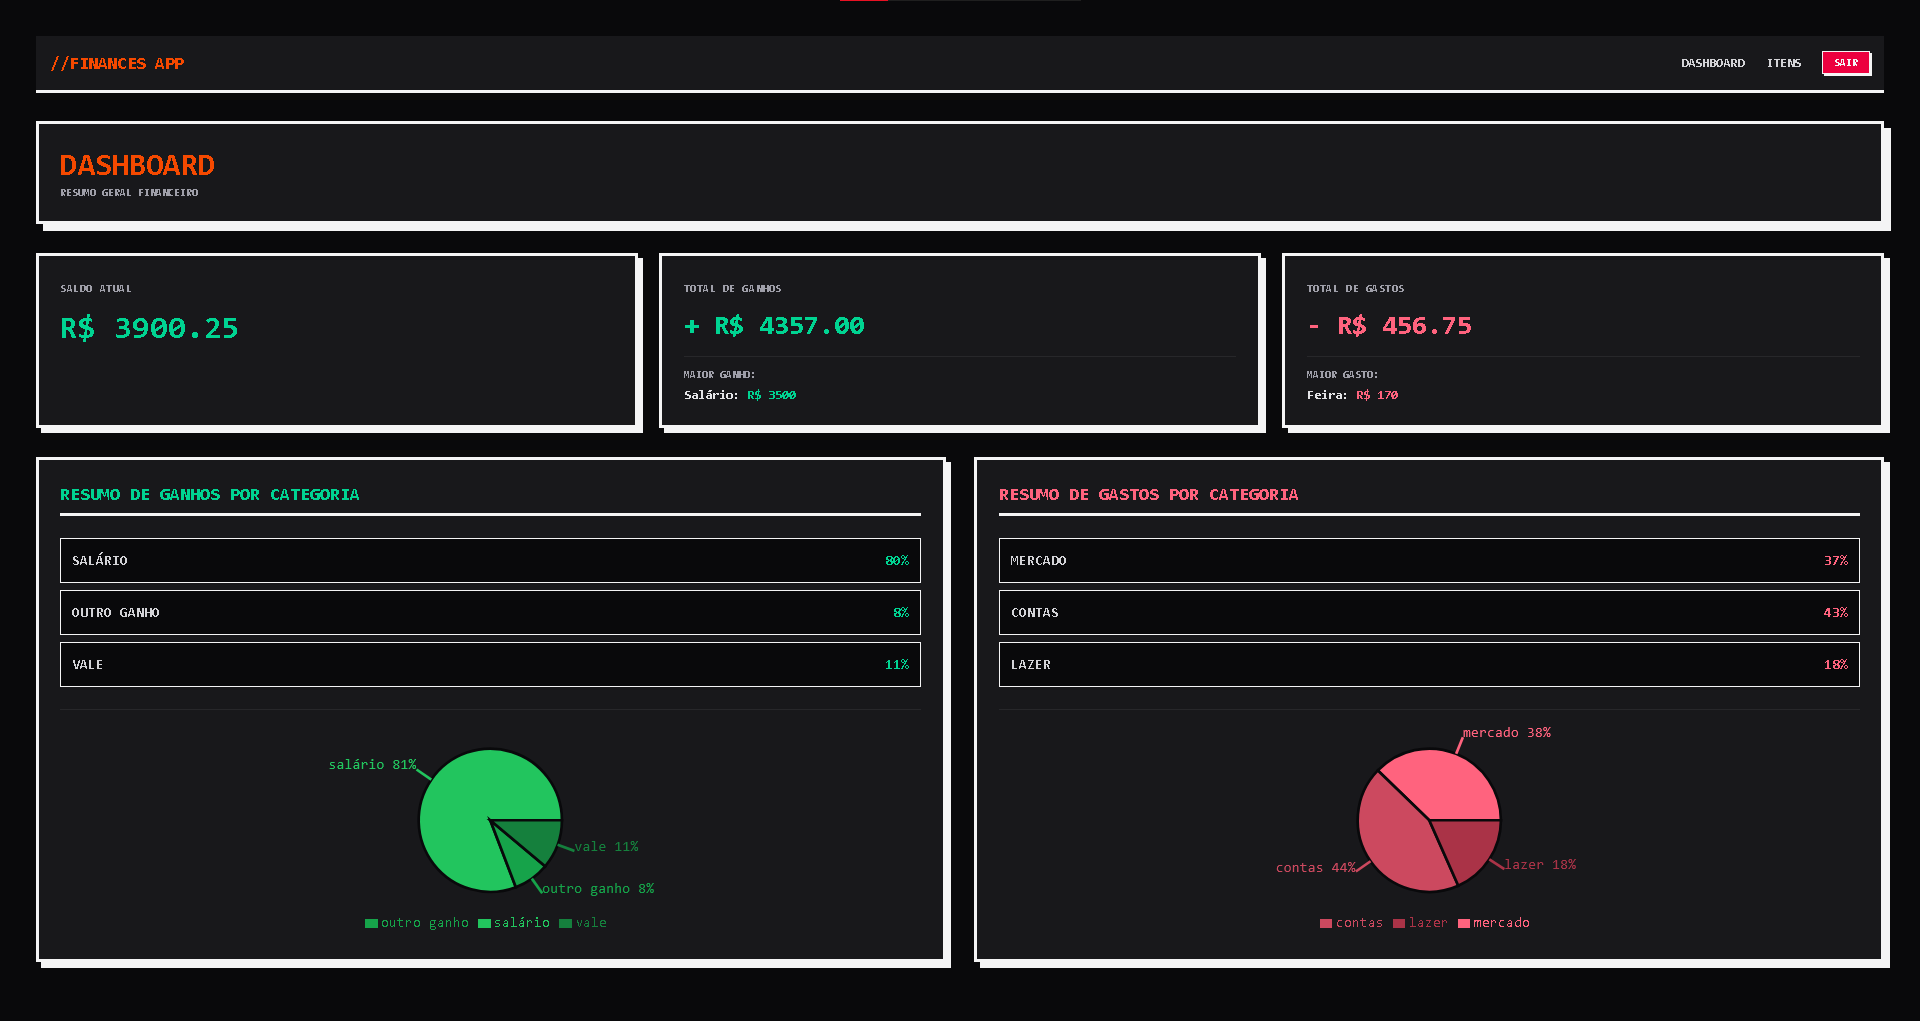
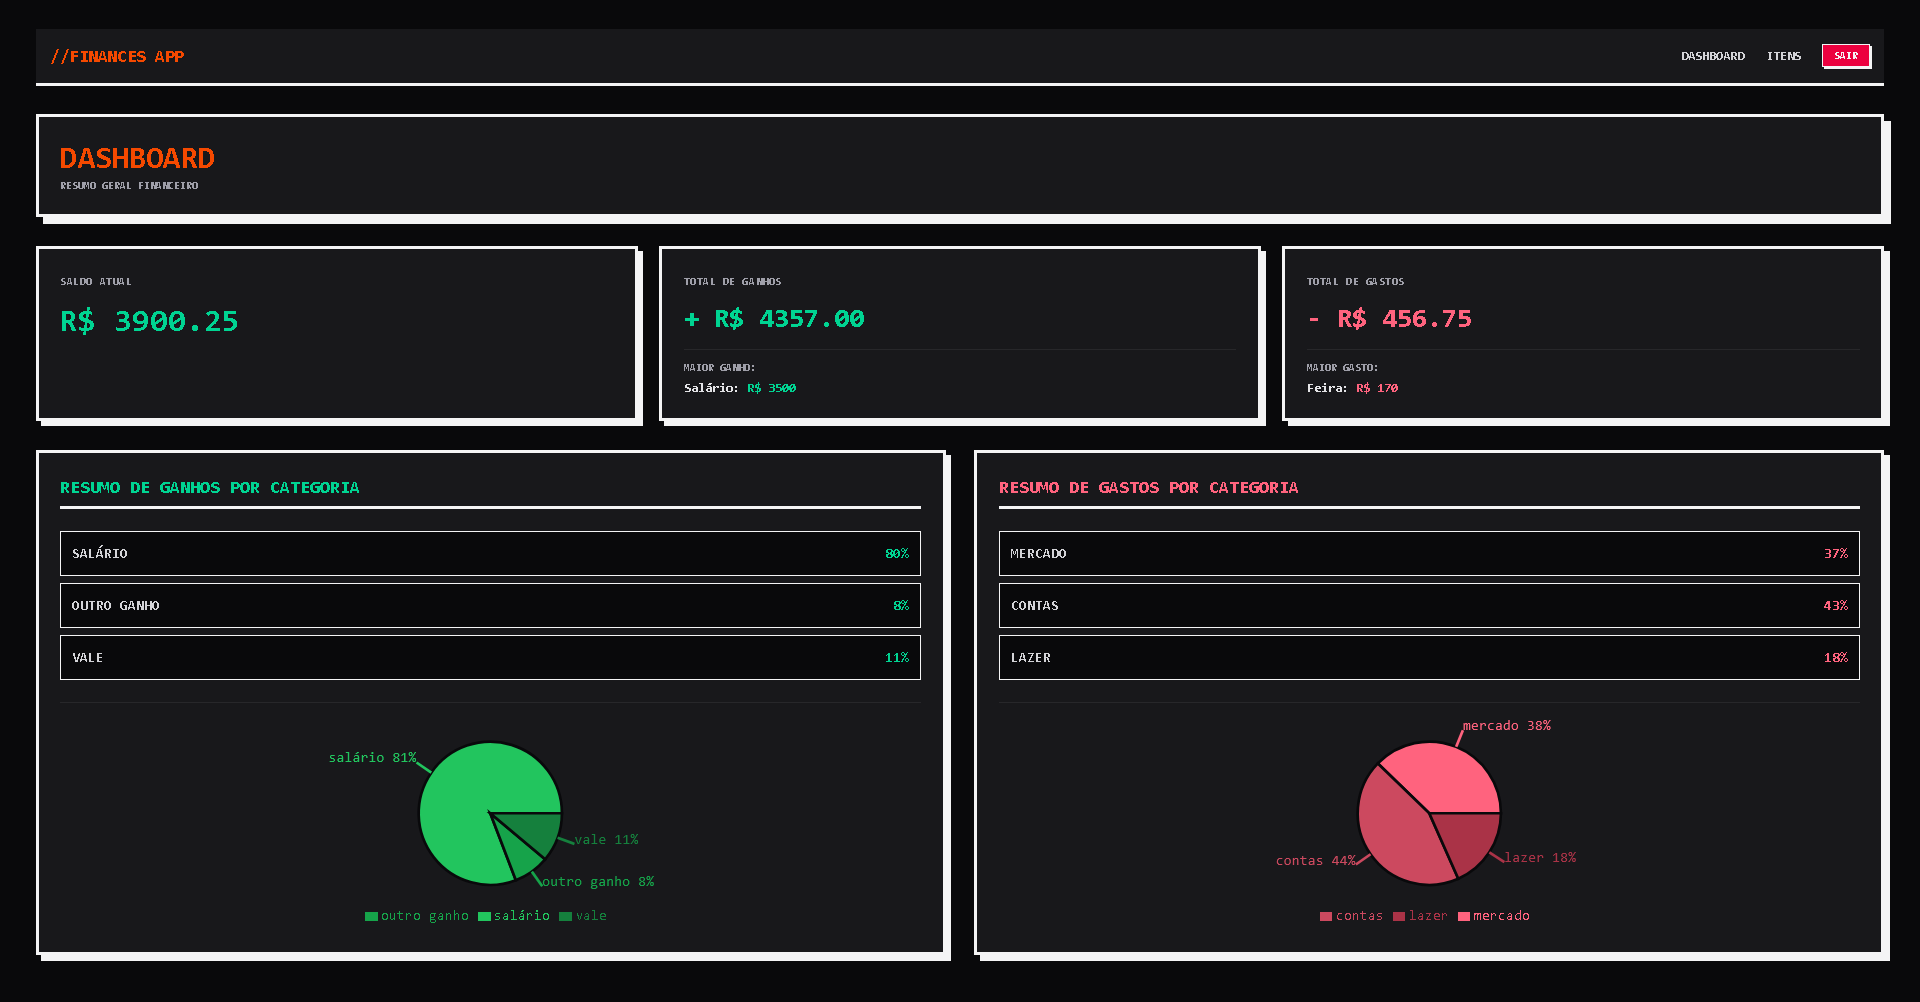
Finalizado README, ajustes no .gitignore, .env.docker e compose

diff --git a/README.md b/README.md
@@ -30,8 +30,13 @@
       <a href="#comece-aqui">Comece aqui</a>
       <ul>
         <li><a href="#prerequisitos">Pré-requisitos</a></li>
-        <li><a href="#instalacao">Instalação</a></li>
       </ul>
+      <li><a href="#instalacao">Instalação</a></li>
+        <ul>
+          <li><a href="#backend">Backend</a></li>
+          <li><a href="#frontend">Frontend</a></li>
+          <li><a href="#docker">Docker</a></li>
+        </ul>
     </li>
     <li><a href="#uso">Uso</a></li>
     <li><a href="#conceitos">Conceitos usados</a></li>
@@ -39,13 +44,13 @@
 </details>
 
 <!-- SOBRE O PROJETO -->
-# <a id="sobre-o-projeto">Sobre o projeto</a>
+# <h3 id="sobre-o-projeto">Sobre o projeto</h3>
 
 ![Product Name Screen Shot][product-screenshot]
 
 Aplicativo de finanças pessoais. Registre seus gastos e ganhos para ter um controle organizado da sua renda. Desenvolvido como o sétimo projeto de um desafio de desenvolvimento de 12 meses, com foco em conceitos avançados de React e Python.
 
-### <a id="funcionalidades">Funcionalidades</a>
+# <h3 id="funcionalidades">Funcionalidades</h3>
 
 * Criação de contas e autenticação por token
 * Rotas protegidas
@@ -57,7 +62,7 @@ Aplicativo de finanças pessoais. Registre seus gastos e ganhos para ter um cont
 
 <p align="right">(<a href="#topo">Voltar ao topo</a>)</p>
 
-# <a id="feito-com">Tecnologias usadas</a>
+# <h3 id="feito-com">Tecnologias usadas</h3>
 
 * [![Python][Python]][Python-url]
 * [![PostgreSQL][PostgreSQL]][PostgreSQL-url]
@@ -67,7 +72,7 @@ Aplicativo de finanças pessoais. Registre seus gastos e ganhos para ter um cont
 
 <p align="right">(<a href="#topo">Voltar ao topo</a>)</p>
 
-# <a id="estrutura">Estrutura do projeto</a>
+# <h3 id="estrutura">Estrutura do projeto</h3>
 
 
 Estrutura do backend:
@@ -142,92 +147,147 @@ frontend/
 <p align="right">(<a href="#topo">Voltar ao topo</a>)</p>
 <!-- GETTING STARTED -->
 
-# <a id="comece-aqui">Comece Aqui</a>
+# <h3 id="comece-aqui">Comece Aqui</h3>
 
 As instruções à seguir mostram como instalar e executar o código fonte localmente.
 
 ### Preview online
 * Se você quiser usar a versão online, clique <a href="https://task-tracker-api-2k8u.onrender.com" target="_blank">neste link</a> para iniciar o serviço de backend, e depois <a href="https://finance-tracker-sigma-bice-93.vercel.app" target="_blank">neste link</a> para acessar o aplicativo.
-
-### Docker
-* Para executar a versão em Docker: Baixe o código fonte do projeto e execute o seguinte comando na pasta raiz:
-```
-docker compose up
-```
-
 <p align="right">(<a href="#topo">Voltar ao topo</a>)</p>
 
-## <a id="prerequisitos">Pré-requisitos</a>
+# <h3 id="prerequisitos">Pré-requisitos</h3>
 
 * <a href="https://www.python.org/downloads">Python 3.14.7+</a>
 * <a href="https://nodejs.org/pt-br/download">Node.js 18+</a>
 * <a href ="https://www.postgresql.org/download">PostgreSQL 18.3+</a>
+* <a href="https://git-scm.com/install/windows">Git Bash para Windows</a> (Opcional)
+* <a href="https://www.docker.com/products/docker-desktop/?at_exp=DO105.A-DO106.B">Docker</a> (Opcional)
 
 <p align="right">(<a href="#topo">Voltar ao topo</a>)</p>
 
-## <a id="instalacao">Instalação</a>
+# <h3 id="instalacao">Instalação</h3>
+Clone o repositório
+```sh
+git clone https://github.com/tiago3292/finances
+cd finances
+```
+### <h3 id="backend">Backend</h3>
 
-Em construção
+### 1. Crie e ative o ambiente virtual
+```sh
+cd backend
+python -m venv venv
+source venv/Scripts/activate  # Windows com Git Bash
+source venv/bin/activate # Linux/MacOS
+```
+### 2. Instale as dependências
+```sh
+pip install -r requirements.txt
+```
+### 3. Configure as variáveis de ambiente
+```sh
+cp .env.example .env
+```
+Abra o .env e preencha com os dados do seu banco de dados:
+```sh
+DATABASE_URL=postgresql://username:password@localhost:5432/db_name
+SECRET_KEY=your_secret_key_here_generate_with_openssl_rand_hex_32
+ALGORITHM=your_algorithm_here--delfault:HS256
+ACCESS_TOKEN_EXPIRE_MINUTES=int_here
+```
+### 4. Atualize o banco de dados
+```sh
+alembic upgrade head
+```
+### 5. Inicie o servidor
+```sh
+uvicorn app.main:app --reload
+```
 
-<!--
-1. Get a free API Key at [https://example.com](https://example.com)
-2. Clone the repo
-   ```sh
-   git clone https://github.com/github_username/repo_name.git
-   ```
-3. Install NPM packages
-   ```sh
-   npm install
-   ```
-4. Enter your API in `config.js`
-   ```js
-   const API_KEY = 'ENTER YOUR API';
-   ```
-5. Change git remote url to avoid accidental pushes to base project
-   ```sh
-   git remote set-url origin github_username/repo_name
-   git remote -v # confirm the changes
-   ```
--->
+### <h3 id="frontend">Frontend</h3>
+
+### 1. Instale as dependências
+```sh
+cd ../frontend # Se estiver na pasta raiz: cd frontend
+npm install
+```
+### 2. Executar
+```sh
+npm run dev
+```
+
+### <h3 id="docker">Docker</h3>
+### 1. Configure as variáveis de ambiente
+```sh
+cd ../ # Se estiver na pasta "frontend"
+cp .env.docker.example .env.docker
+```
+Abra o .env.docker e preencha com os dados do seu banco de dados:
+```sh
+DATABASE_URL=postgresql://username:password@db:5432/finances
+POSTGRES_USER=db_username
+POSTGRES_PASSWORD=db_password
+```
+### 2. Construa todas as imagens e containers
+```sh
+docker compose up
+```
 <p align="right">(<a href="#topo">Voltar ao topo</a>)</p>
 
 <!-- USAGE EXAMPLES -->
-## <a id="uso">Uso</a>
+## <h3 id="uso">Uso</h3>
 
-Em construção
+Com os servidores do backend e frontend em execução, acesse os seguintes endereços no seu navegador:
+### API
+```sh
+http://localhost:8000/docs # Swagger UI
+http://localhost:8000/redoc # ReDoc
+```
+### Aplicativo
+```sh
+http://localhost:5173 # Dentro da pasta "frontend"
+```
+### Docker
+```sh
+# API
+http://0.0.0.0:8000/docs # Swagger UI
+http://0.0.0.0:8000/redoc # ReDoc
 
-<!--
-Use this space to show useful examples of how a project can be used. Additional screenshots, code examples and demos work well in this space. You may also link to more resources.
-
-_For more examples, please refer to the [Documentation](https://example.com)_
-
-<p align="right">(<a href="#topo">Voltar ao topo</a>)</p>
--->
-
+# Aplicativo
+http://localhost:3000
+```
 
 <!-- CONCEITOS USADOS -->
 <p align="right">(<a href="#topo">Voltar ao topo</a>)</p>
 
-# <a id="conceitos">Conceitos Usados</a>
+# <h3 id="conceitos">Conceitos Usados</h3>
 
-Em construção
+* CRUD
+* Alembic para migration de tabelas
+* Relations e exclusão em cascata no banco de dados
+* @hybrid_property e @model_validator para categorizações condicionais de dados
+* JWT authentication flow para autenticação via token e rotas protegidas
+* CORS
+* Interceptor do Axios
+* Sistema de upload de arquivo relacionado ao item
+* Filtragem de itens no frontend
+* Tailwind no React para estilização
+* Docker
+* Deploys em sites hospedeiros (Render para o backend, Vercel para o frontend)
+* CI/CD com Github actions
 
 <p align="right">(<a href="#topo">Voltar ao topo</a>)</p>
 
 <!-- CONTATO -->
-# Contato
-
-Em construção
-<!--
-Your Name - [@twitter_handle](https://twitter.com/twitter_handle) - email@email_client.com
-
-Project Link: [https://github.com/github_username/repo_name](https://github.com/github_username/repo_name)
--->
+### Contato
+[![Linkedin][Linkedin]][Linkedin-url]
 <p align="right">(<a href="#topo">Voltar ao topo</a>)</p>
 
 <!-- MARKDOWN LINKS & IMAGES -->
+
 <!-- https://www.markdownguide.org/basic-syntax/#reference-style-links -->
 [product-screenshot]: screenshot.png
+
 <!-- Shields.io badges. You can a comprehensive list with many more badges at: https://github.com/inttter/md-badges -->
 [Python]: https://img.shields.io/badge/Python-14354C?style=for-the-badge&logo=python&logoColor=white
 [Python-url]: https://www.python.org/
@@ -239,3 +299,5 @@ Project Link: [https://github.com/github_username/repo_name](https://github.com/
 [TailwindCSS-url]: https://tailwindcss.com/
 [JavaScript]: https://img.shields.io/badge/JavaScript-F7DF1E?style=for-the-badge&logo=javascript&logoColor=black
 [JavaScript-url]: https://developer.mozilla.org/pt-BR/docs/Web/JavaScript
+[Linkedin]: https://img.shields.io/badge/LinkedIn-0077B5?style=for-the-badge&logo=linkedin&logoColor=white
+[Linkedin-url]: https://www.linkedin.com/in/tiagosantos92/
